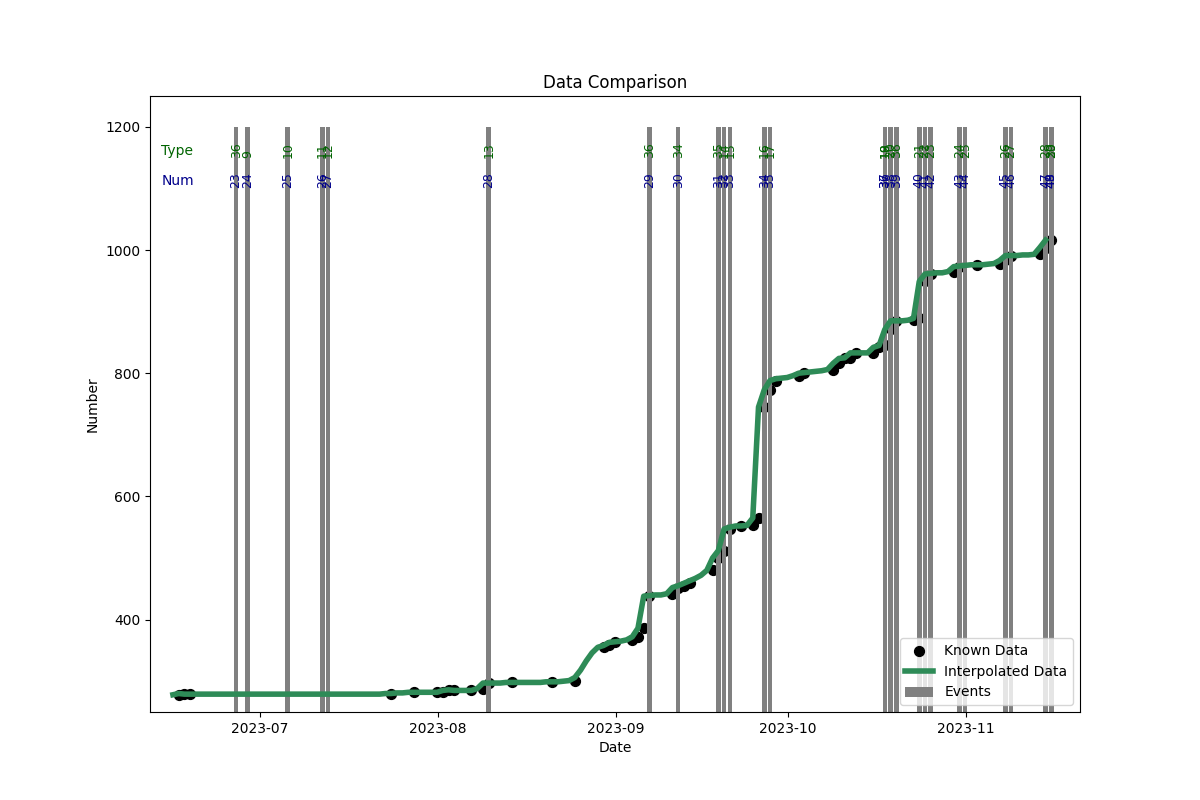
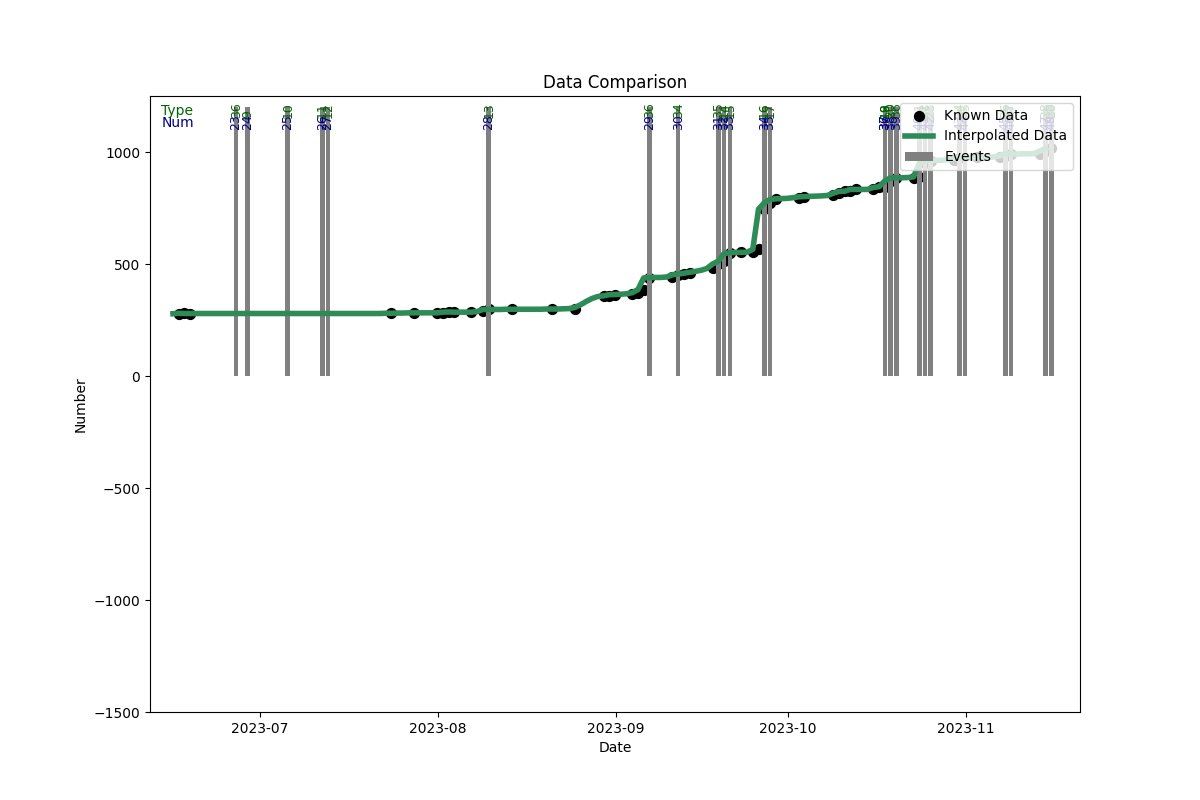
break

diff --git a/model2.py b/model2.py
@@ -15,17 +15,20 @@ def load_data():
     return sub_time, sub_cnt, event_time, event_type
 
 def pharmacokinetic_model(t, K0, V_abs, V_el):
+    if abs(V_el - V_abs) <= 0.01:
+        return 0
     return K0 * (V_abs / (V_el - V_abs)) * (np.exp(-V_abs * t) - np.exp(-V_el * t))
 
 def get_parameters():
     sub_time, sub_cnt, event_time, event_type = load_data()
     num_event_types = len(set(event_type))
     initial_params = np.random.rand(num_event_types * 3)
-    initial_params[:num_event_types] *= 10
-    initial_params[num_event_types:2*num_event_types] *= 2
-    initial_params[2*num_event_types:] *= 1.8
-    initial_params[2*num_event_types:] += 0.2
-    bounds = [(0, 10)] * num_event_types + [(0, 2)] * num_event_types + [(0.2, 2)] * num_event_types
+    initial_params[:num_event_types] *= 100
+    initial_params[num_event_types:2*num_event_types] *= 1.7
+    initial_params[num_event_types:2*num_event_types] += 0.3
+    initial_params[2*num_event_types:] *= 1.85
+    initial_params[2*num_event_types:] += 0.15
+    bounds = [(0, 100)] * num_event_types + [(0.3, 2)] * num_event_types + [(0.15, 2)] * num_event_types
 
     def loss_function(params):
         K0s = params[:num_event_types]
@@ -33,14 +36,19 @@ def get_parameters():
         V_els = params[2*num_event_types:3*num_event_types]
         total_subscribers = np.zeros(len(sub_time)) + sub_cnt[0]
 
+        start = sub_time[0]
         for i, sub_day in enumerate(sub_time):
             total_effect = 0
             for j, (ed, et) in enumerate(zip(event_time, event_type)):
+                if ed < start:
+                    continue
                 K0 = K0s[et - 1]
                 V_abs = V_abss[et - 1]
                 V_el = V_els[et - 1]
                 if sub_day >= ed:
-                    effect = pharmacokinetic_model(sub_day - ed, K0, V_abs, V_el)
+                    effect = pharmacokinetic_model((sub_day - ed)//86400, K0, V_abs, V_el)
+                    #effect, error = quad(
+                        #lambda t, K0=K0, V_abs=V_abs, V_el=V_el: pharmacokinetic_model(t, K0, V_abs, V_el), 0,(sub_day - ed)//86400)
                     total_effect += effect
             total_subscribers[i] += total_effect
         return np.sum((total_subscribers - sub_cnt) ** 2)
@@ -55,8 +63,11 @@ for i in range(len(K0_params)):
 
 integrals = []
 for i in range(len(K0_params)):
-    integral, error = quad(lambda t, K0=K0_params[i], V_abs=V_abs_params[i], V_el=V_el_params[i]: pharmacokinetic_model(t, K0, V_abs, V_el), 0, 1000)
+    integral, error = quad(lambda t, K0=K0_params[i], V_abs=V_abs_params[i], V_el=V_el_params[i]: pharmacokinetic_model(t, K0, V_abs, V_el), 0, np.inf)
     integrals.append((i + 1, integral))
 
 for idx, val in integrals:
     print(f"Integral for event type {idx}: {val:.2f}")
+
+def get_coefficients():
+    return integrals

diff --git a/visual.py b/visual.py
@@ -28,6 +28,16 @@ data_types = data['Type'].tolist()
 data_y = [1200 for _ in data_x]
 plt.bar(data_x, data_y, color='grey', lw=1, label='Events')
 
+# coef_data = pd.read_csv('table_coef.txt', delimiter=',', header=None, names=['Index', 'Num1', 'Num2'])
+# coef_data['Sum'] = int(coef_data['Num1']) + int(coef_data['Num2'])
+#
+# for idx, row in coef_data.iterrows():
+#     if idx == 0:
+#         continue
+#     event_index = int(row['Index']) - 1
+#     if 0 <= event_index < len(data_x):
+#         plt.bar(data_x[event_index], -row['Sum'], color='red', width=0.02, label='Negative Bar' if idx == 0 else "")
+
 for i, (x, type_text) in enumerate(zip(data_x, data_types)):
     if start <= x <= finish:
         plt.text(x, 1100, str(i+1), rotation=90, ha='center', va='bottom', fontsize=9, color='darkblue')
@@ -37,12 +47,12 @@ plt.text(start - timedelta(days=3), 1100, 'Num', fontsize=10, color='darkblue', 
 plt.text(start - timedelta(days=3), 1150, 'Type', fontsize=10, color='darkgreen', ha='left', va='bottom')
 
 plt.xlim(start - timedelta(days=5), finish + timedelta(days=5))
-plt.ylim(250, 1250)
+plt.ylim(-1500, 1250)
 
 plt.title('Data Comparison')
 plt.xlabel('Date')
 plt.ylabel('Number')
-plt.legend(loc='lower right')
+plt.legend(loc='upper right')
 
 chart_file_path = 'chart.png'
 plt.savefig(chart_file_path)

diff --git a/table2.py b/table2.py
@@ -1,0 +1,28 @@
+import numpy as np
+import pandas as pd
+from pandas import to_datetime
+import matplotlib.pyplot as plt
+
+from model2 import get_coefficients
+final_coefficients = get_coefficients()
+
+num_event_types = len(final_coefficients)
+data = []
+
+for event_type in range(num_event_types):
+    data.append({
+        'Тип мероприятия': int(final_coefficients[event_type][0]),
+        'Эффективность': int(final_coefficients[event_type][1]),
+    })
+
+df = pd.DataFrame(data)
+df.to_csv('table_eff2.txt', index=False)
+
+fig, ax = plt.subplots(figsize=(10, 0.5 * len(df) - 10))
+ax.axis('tight')
+ax.axis('off')
+cell_text = [[str(int(item)) if i == 0 else item for i, item in enumerate(row)] for row in df.values]
+the_table = ax.table(cellText=cell_text, colLabels=df.columns, cellLoc='center', loc='center')
+plt.subplots_adjust(left=0.05, right=0.95, top=1, bottom=0, hspace=0, wspace=0)
+
+plt.savefig('table_image2.png', dpi=300, bbox_inches='tight')
